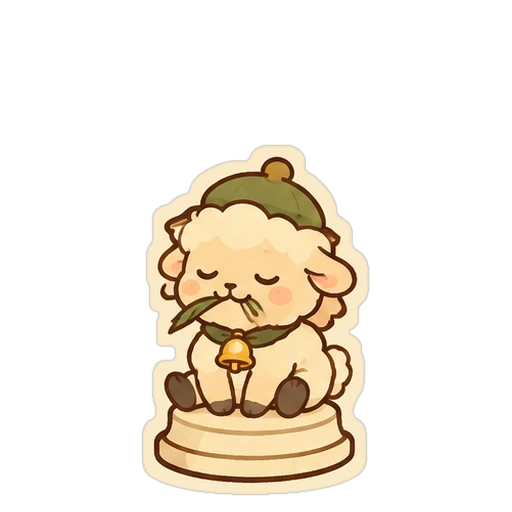
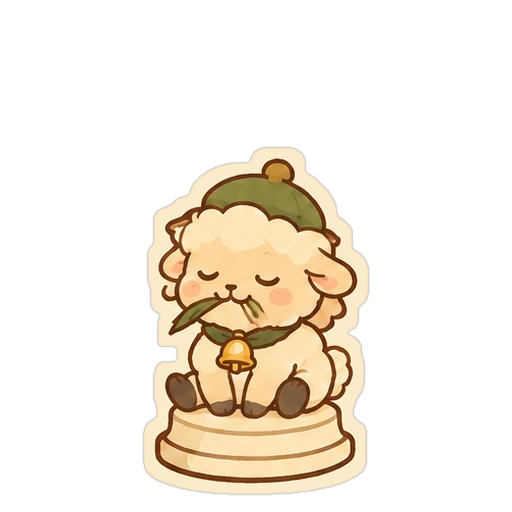
Sheep rook: both hooves the same dark colour
Claude-Session: https://claude.ai/code/session_01GY2SyFFjfsGQQt5N8cdPWr

diff --git a/web/scripts/pieces/patch_seed.py b/web/scripts/pieces/patch_seed.py
@@ -1,0 +1,43 @@
+# แก้จุดเล็กด้วยมือ: ไหลจากจุดเริ่มผ่านพิกเซลที่สีใกล้กับสีของจุดเริ่ม (ภายในรัศมี) แล้วแทนที่ทั้งบริเวณ
+# ใช้: PIECE_DIR=work PIECE_EXT=.png python patch_seed.py <file> <รัศมี> <ระยะสี> <clear | cream | #rrggbb> <x,y> [...]
+#   clear = ทำให้โปร่งใส, cream = สีขอบสติกเกอร์ของตัวนั้น, #rrggbb = สีที่กำหนด
+import sys, os
+from collections import deque
+import numpy as np
+from PIL import Image, ImageFilter
+d = os.environ.get('PIECE_DIR', '.'); EXT = os.environ.get('PIECE_EXT', '.png')
+name, radius, tol, to = sys.argv[1], int(sys.argv[2]), float(sys.argv[3]), sys.argv[4]
+seeds = [tuple(int(v) for v in s.split(',')) for s in sys.argv[5:]]
+path = os.path.join(d, name + EXT)
+a = np.asarray(Image.open(path).convert('RGBA')).astype(np.float32)
+h, w, _ = a.shape
+rgb, al = a[..., :3], a[..., 3]
+seen = np.zeros((h, w), bool)
+for x, y in seeds:
+    ref = np.median(rgb[max(0, y - 1):y + 2, max(0, x - 1):x + 2].reshape(-1, 3), axis=0)
+    near = (np.sqrt(((rgb - ref) ** 2).sum(axis=2)) < tol) & (al > 200)
+    if not near[y, x]:
+        print('  seed colour unstable at', (x, y)); continue
+    q = deque([(y, x)]); part = np.zeros((h, w), bool); part[y, x] = True
+    while q:
+        cy, cx = q.popleft()
+        for dy, dx in ((1, 0), (-1, 0), (0, 1), (0, -1)):
+            ny, nx = cy + dy, cx + dx
+            if 0 <= ny < h and 0 <= nx < w and near[ny, nx] and not part[ny, nx] and (nx - x) ** 2 + (ny - y) ** 2 <= radius ** 2:
+                part[ny, nx] = True; q.append((ny, nx))
+    # ขอบนุ่มของบริเวณ: พิกเซลติดกันที่สียังเอียงไปทางสีของจุดเริ่ม
+    soft = (np.asarray(Image.fromarray((part * 255).astype(np.uint8)).filter(ImageFilter.MaxFilter(5))) > 0) & ~part & (np.sqrt(((rgb - ref) ** 2).sum(axis=2)) < tol * 2.2) & (al > 200)
+    seen |= part | soft
+out = a.copy()
+if to == 'clear':
+    out[seen, 3] = 0
+else:
+    if to == 'cream':
+        band = (al > 200) & ~(np.asarray(Image.fromarray(((al > 200) * 255).astype(np.uint8)).filter(ImageFilter.MinFilter(13))) > 127)
+        light = band & (rgb[..., 0] > 225) & (rgb[..., 1] > 200) & (rgb[..., 2] > 140)
+        col = np.median(rgb[light], axis=0) if light.sum() > 200 else np.array([250.0, 232.0, 200.0])
+    else:
+        col = np.array([int(to[i:i + 2], 16) for i in (1, 3, 5)], dtype=np.float32)
+    out[seen, :3] = col
+print(name, to, 'px', int(seen.sum()))
+Image.fromarray(out.clip(0, 255).astype(np.uint8), 'RGBA').save(path, **({'format': 'WEBP', 'quality': 92, 'method': 6} if EXT == '.webp' else {'format': 'PNG'}))
